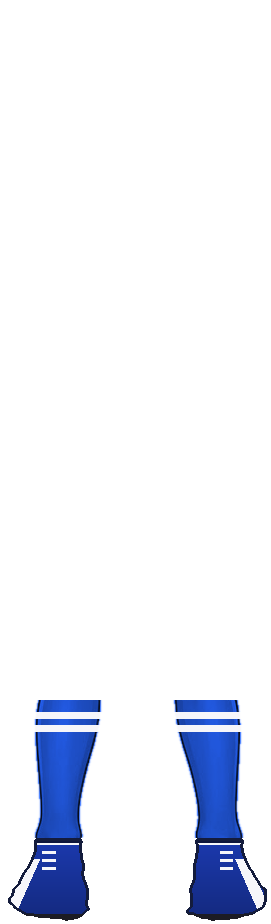
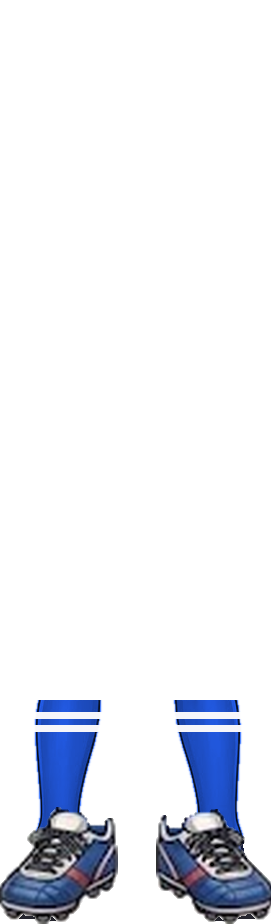
Football boots: the drawn cleats from the player sheet instead of the home-made shoes
Claude-Session: https://claude.ai/code/session_014jnUeyKMqPRnHWDHekunpA

Changed region(s): [[0.0, 0.8485, 0.4428, 1.0], [0.5609, 0.8788, 1.0, 1.0]]

diff --git a/football/assets/make-cleats.py b/football/assets/make-cleats.py
@@ -1,0 +1,37 @@
+import numpy as np, sys
+from PIL import Image
+from scipy import ndimage as nd
+D='/tmp/claude-0/-home-user/c23b6031-30d2-5e3e-9252-b776b3864c53/scratchpad/fb/'
+R='/home/user/kochavot-korot/football/assets/'
+sc=float(sys.argv[1]); cut=int(sys.argv[2]); cxs=[int(sys.argv[3]),int(sys.argv[4])]
+lay=np.array(Image.open(D+'boots-orig.png')).copy()
+lay[cut:,:,3]=0
+L=Image.fromarray(lay)
+for i,cx in enumerate(cxs):
+    c=np.array(Image.open(D+f'cleat{i}.png')).astype(int)
+    # the sock above the shoe's collar goes; the drawn sock layer shows there instead
+    # start the shoe at its white collar; the drawn sock layer shows above it
+    white=(c[...,:3].min(-1)>200)&(c[...,3]>200)
+    rows=np.where(white.sum(1)>=3)[0]; r0=rows[0]
+    top=c[:r0+5]; sock=(top[...,2]>top[...,0]+40)&~white[:r0+5]
+    top[...,3]=np.where(sock,0,top[...,3]); c[:r0+5]=top
+    rows=np.where(c[...,3].max(1)>100)[0]; c=c[rows[0]:]
+    print('collar row',rows[0])
+    c=Image.fromarray(c.astype(np.uint8))
+    w,h=int(c.size[0]*sc),int(c.size[1]*sc); c=np.array(c.resize((w,h),Image.LANCZOS))
+    # the sole: fill the gaps between the studs so no toes show through
+    for y in range(h-int(14*sc/2.5),h):
+        xs=np.where(c[y,:,3]>120)[0]
+        if len(xs)>1:
+            gap=c[y,xs[0]:xs[-1]+1]; m=gap[...,3]<=120; gap[m]=[38,38,46,255]
+    # thin leftovers of the sock outline above the shoe go
+    solid=nd.binary_opening(c[...,3]>120,structure=np.ones((5,5)))
+    solid=nd.binary_dilation(solid,iterations=1)
+    c[...,3]=np.where(solid,c[...,3],0)
+    c=Image.fromarray(c)
+    L.alpha_composite(c,(int(cx-w/2),924-h))
+L.save(R+'items/boots-on.png')
+p=Image.open(R+'player.png').convert('RGBA')
+for l in ['jersey','shorts','boots']: p.alpha_composite(Image.open(R+f'items/{l}-on.png'))
+bg=Image.new('RGBA',p.size,(120,200,120,255));bg.alpha_composite(p)
+bg.crop((0,640,271,924)).resize((542,568)).save(D+'feet2.png')
